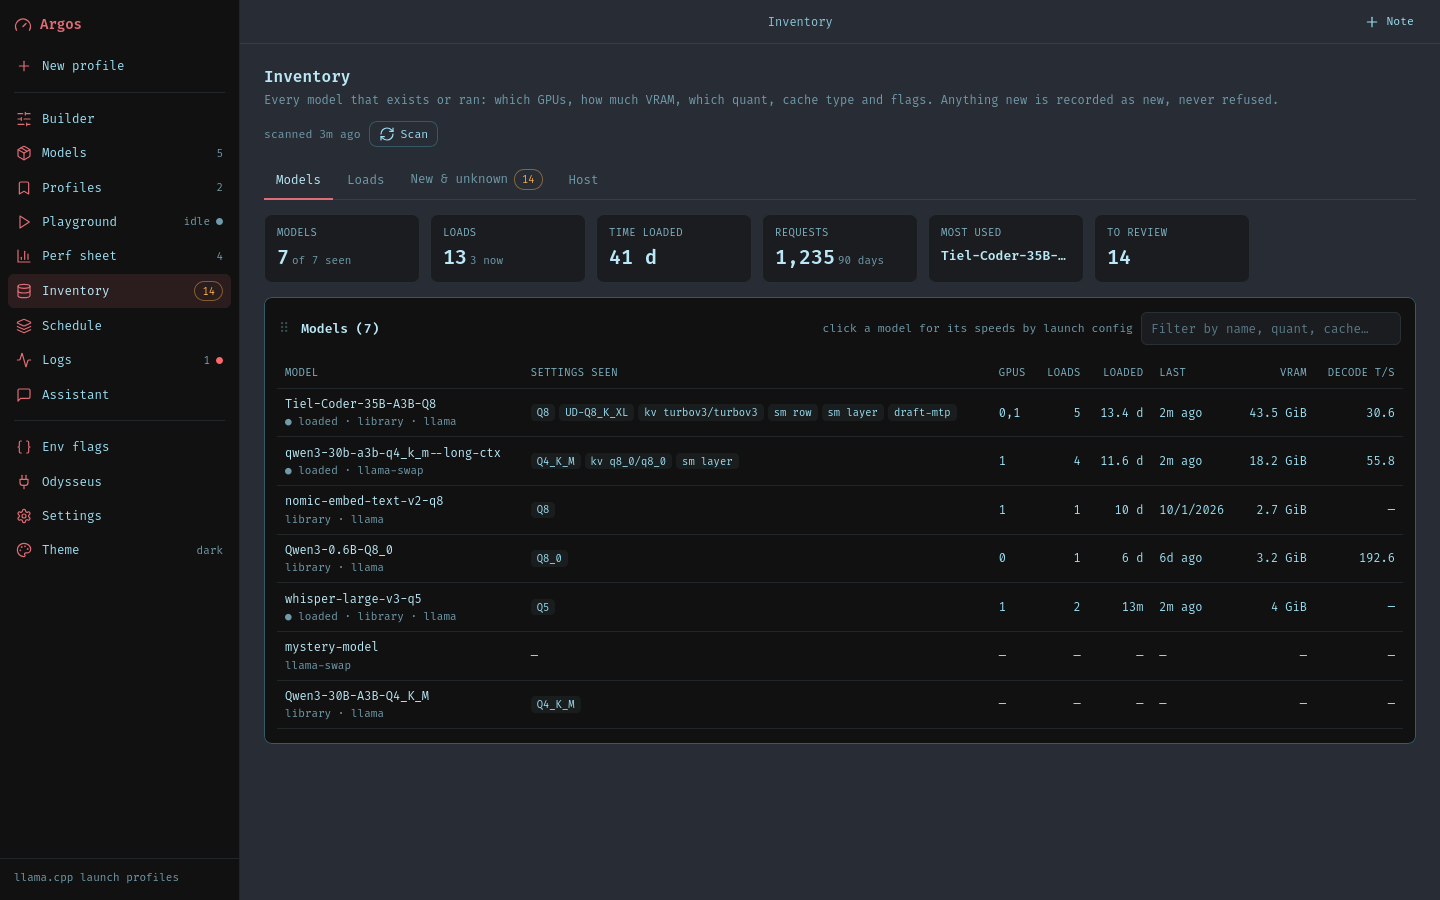
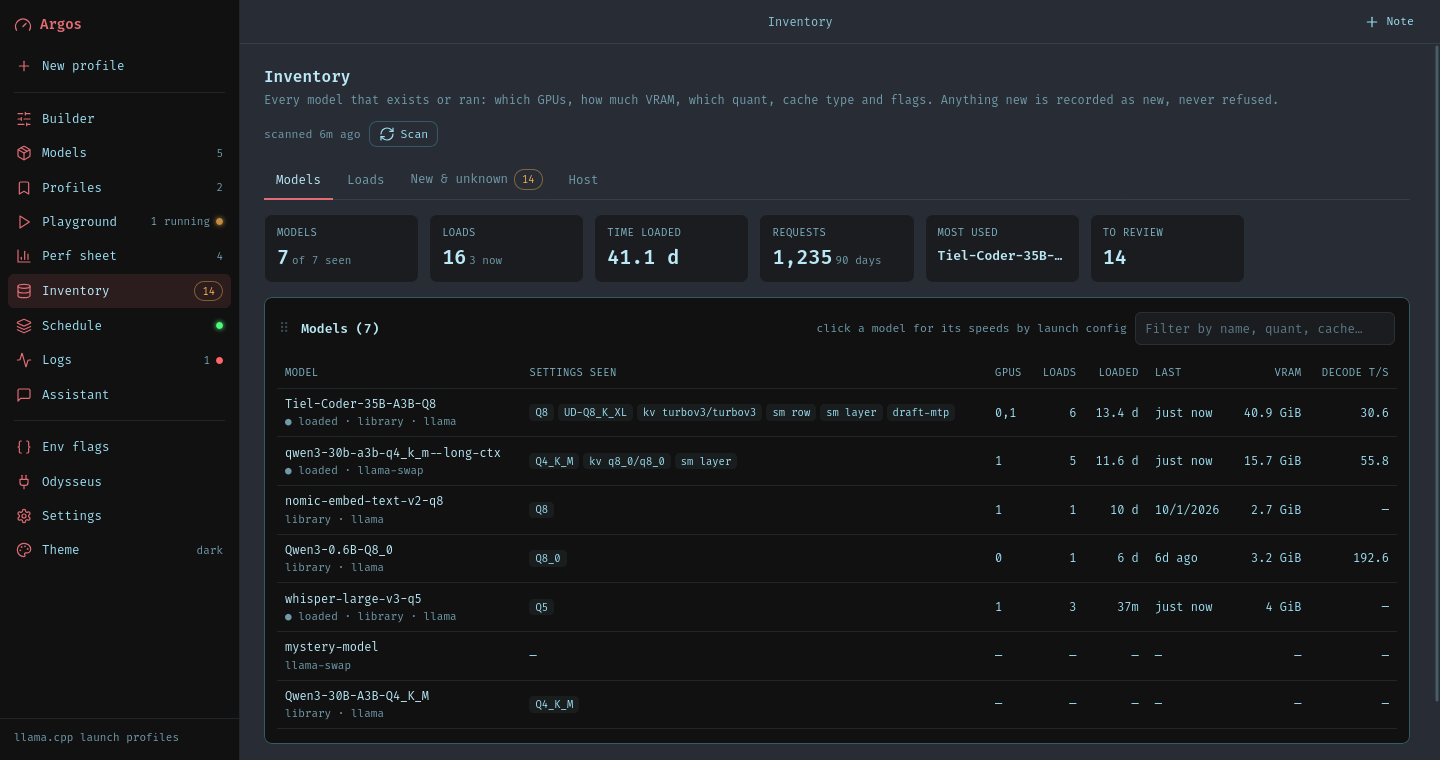
docs: Docker setup, shorter README, tighter screenshots
Add a Dockerfile, compose file and entrypoint that run the engine and the
builder in one container on top of the user's llama.cpp image. Rewrite the
README opening and Run it section, move tests and configuration to docs/,
retake the screenshots without blank space and style scrollbars to the theme.

diff --git a/builder/src/ui/style.css b/builder/src/ui/style.css
@@ -539,3 +539,6 @@ tr.diff-added .after, tr.diff-changed .after { color: var(--green); }
 .theme-pick { display: flex; flex-wrap: wrap; gap: 12px; }
 .theme-field { display: flex; align-items: center; gap: 6px; font-size: 11px; color: var(--muted); }
 .theme-field input[type=color] { width: 30px; height: 24px; padding: 0; border: 1px solid var(--line); border-radius: 4px; background: none; cursor: pointer; }
+
+/* Scrollbars follow the theme instead of showing the system's light ones */
+* { scrollbar-width: thin; scrollbar-color: color-mix(in srgb, var(--fg) 28%, transparent) transparent; }

diff --git a/builder/src/scheduler.py b/builder/src/scheduler.py
@@ -34,7 +34,7 @@ DEFAULT_PLAN: dict[str, Any] = {
     "persistent": [],        # model ids that are never evicted to make room
     "sizes": {},             # model id -> GiB, set by hand
     "measured": {},          # model id -> {"gib", "per_card", "at", "load_seconds"}, set by Measure
-    "export_file": "",       # where the YAML fragment is written
+    "export_file": os.environ.get("ARGOS_EXPORT_FILE", ""),  # where the YAML fragment is written
 }
 
 # bytes per KV element for ggml cache types (block size and header included)

diff --git a/README.md b/README.md
@@ -1,13 +1,6 @@
 # Argos
 
-**Run llama.cpp models on your own GPUs. Build the command, load the models, watch it all.**
-
-Argos is the control panel for your local llama.cpp. It does not replace `llama-server`. That stays the thing that runs your models. Argos decides which models are loaded, on which GPU, and shows you how fast they run.
-
-It is two parts in one repo:
-
-- **The engine** (Go, in the root). A fork of [llama-swap](https://github.com/mostlygeek/llama-swap) with a smarter scheduler.
-- **The builder** (Python, in `builder/`). The web page where you build presets, test them and watch everything.
+**Run your models with a profile builder, performance sheets, a demo playground and a scheduler that handles model requests. Bring your own back-end and this is a one-stop shop. Integrates with Odysseus.**
 
 ![Schedule](docs/shots/schedule.png)
 
@@ -15,10 +8,10 @@ It is two parts in one repo:
 
 - **Builder.** Tune a `llama-server` command with simple controls. Save as many presets as you want.
 - **Models.** See every model file you have. Download new ones from Hugging Face.
-- **Scheduler.** All your models share the GPUs. Argos loads what fits, and only unloads a model when it has to. It is the engine in this repo.
+- **Scheduler.** All your models share the GPUs. Argos loads what fits and only unloads a model when it has to.
 - **Playground.** Launch a model, run a speed test, and watch speed per request while it works.
-- **Inventory.** Every model and every launch, remembered. New quants and flags never break it.
-- **Logs.** GPU use, speed per request, and events. From 30 seconds back to a year.
+- **Perf sheets and Inventory.** Every model and every launch is remembered, with prefill and decode speed for each setup.
+- **Logs.** GPU use, speed per request and events, from 30 seconds back to a year.
 - **Assistant.** A small model that knows your history and answers questions about it.
 - **Odysseus.** Notes, Brain, Calendar, Library, Cookbook, Tasks, Gallery and Tools, right inside Argos.
 - **Themes.** The same themes as Odysseus, or make your own.
@@ -33,42 +26,28 @@ _Screenshots use demo data._
 
 ## Run it
 
-Engine:
+Argos runs in Docker. It needs an image that already has your `llama-server` in it. That is your back-end, and Argos does not replace it.
 
 ```sh
-make clean all
-build/llama-swap -config config.yaml -config-dir config.d -watch-config
+git clone https://github.com/Wizard815/Argos
+cd Argos
+echo "BASE_IMAGE=your-llamacpp-image" > .env
+docker compose up -d --build
 ```
 
-Builder:
+Put your `.gguf` files in `./models` (or set `MODELS_DIR` in `.env`). Then open:
 
-```sh
-cd builder
-pip install -r requirements.txt
-python -m src.app
-```
+- **http://localhost:7861** for Argos.
+- **http://localhost:8080** for the OpenAI API your apps talk to.
 
-Open http://localhost:7861. The original llama-swap docs are in [docs/llama-swap.md](docs/llama-swap.md).
+The compose file passes your AMD GPUs through (`/dev/kfd` and `/dev/dri`). On NVIDIA, change that part for your setup.
 
-## Connect it
+## Connect Odysseus
 
-| Setting | What it is |
-| --- | --- |
-| `LLAMA_SWAP_URL` | Your Argos engine, for example `http://llama-swap:8080`. |
-| `MODELS_DIR` | The folder with your model files. Use the same one the engine scans. |
-| `ODYSSEUS_COOKBOOK` | Odysseus' `cookbook_state.json`, to import your Cookbook presets. |
-| `HF_TOKEN` | Hugging Face token, only for gated models. |
-| `ARGOS_DB` | Where Argos keeps its data. Default `./data.db`. |
+Open **Odysseus** in the sidebar, paste your Odysseus URL and an API token (Odysseus → Settings → API tokens), and press **Save & connect**.
 
-Everything here can also be set in **Settings**. To connect Odysseus, open the **Odysseus** page and paste your URL and an API token.
+More settings are in [docs/configuration.md](docs/configuration.md). Running without Docker is in [docs/development.md](docs/development.md).
 
-**Security:** the Playground runs whatever command you give it, and there is no login. Only expose the port to people you trust.
+**Security:** the Playground runs whatever command you give it, and there is no login. Only expose the ports to people you trust.
 
-## Tests
-
-```sh
-make test-dev                              # engine
-cd builder && pip install -r requirements-dev.txt && pytest
-```
-
-The tests use stand-ins instead of real services: `tests/fake_llama_server.py` (prints llama-server's log format and serves `/health`, `/completion` and `/v1/chat/completions`), plus in-process fakes of the Hugging Face Hub and of llama-swap-rescan's API in `tests/fakes.py`. The full launch → benchmark → record path, downloads with resume, telemetry and the assistant all run without a GPU or network. Exported presets are checked against the same rules llama-swap-rescan's `ParseCommand` applies.
+The engine is a fork of [llama-swap](https://github.com/mostlygeek/llama-swap). Its original docs are in [docs/llama-swap.md](docs/llama-swap.md).

diff --git a/docs/development.md b/docs/development.md
@@ -1,0 +1,38 @@
+# Development
+
+## Tests
+
+Engine:
+
+```sh
+make test-dev
+```
+
+Builder:
+
+```sh
+cd builder
+pip install -r requirements-dev.txt
+pytest
+```
+
+The tests use stand-ins instead of real services: `tests/fake_llama_server.py` (prints llama-server's log format and serves `/health`, `/completion` and `/v1/chat/completions`), plus in-process fakes of the Hugging Face Hub and of the engine's API in `tests/fakes.py`. The full launch → benchmark → record path, downloads with resume, telemetry and the assistant all run without a GPU or network. Exported presets are checked against the same rules the engine's `ParseCommand` applies.
+
+## Run without Docker
+
+Engine:
+
+```sh
+make clean all
+build/llama-swap -config config.yaml -config-dir config.d -watch-config
+```
+
+Builder:
+
+```sh
+cd builder
+pip install -r requirements.txt
+python -m src.app
+```
+
+Open http://localhost:7861 and set the engine's URL in Settings.

diff --git a/docs/configuration.md b/docs/configuration.md
@@ -1,0 +1,15 @@
+# Configuration
+
+Everything here can also be set on the **Settings** page. Environment variables set the defaults.
+
+| Setting | What it is |
+| --- | --- |
+| `LLAMA_SWAP_URL` | Your Argos engine, for example `http://llama-swap:8080`. |
+| `MODELS_DIR` | The folder with your model files. Use the same one the engine scans. |
+| `ODYSSEUS_COOKBOOK` | Odysseus' `cookbook_state.json`, to import your Cookbook presets. |
+| `HF_TOKEN` | Hugging Face token, only for gated models. |
+| `ARGOS_DB` | Where Argos keeps its data. Default `./data.db`. |
+| `ARGOS_EXPORT_FILE` | Where the scheduler plan is written for the engine. Set for you in Docker. |
+| `ARGOS_RUNS_DIR` | One log file per launch. |
+| `ARGOS_TELEMETRY` | `0` turns the background GPU collector off. |
+| `HOST` / `PORT` | Where the web page listens. Default `0.0.0.0:7861`. |
